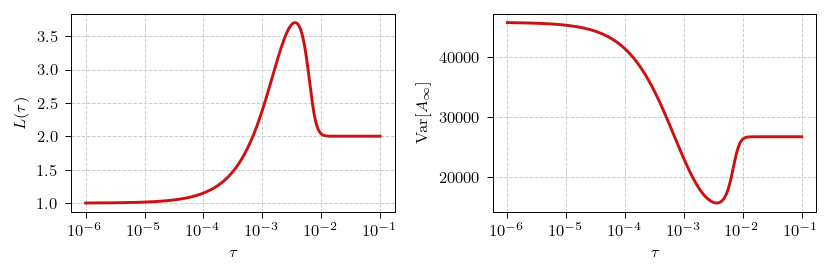
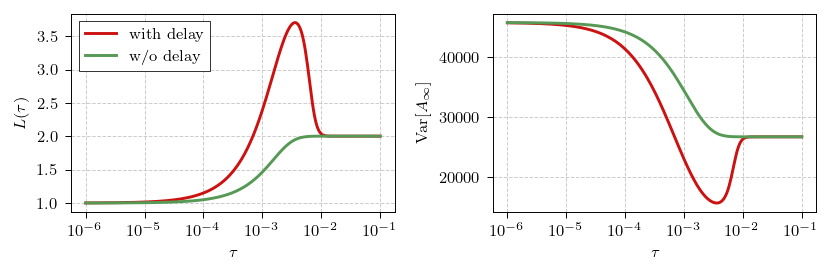
add AR(1) approximation for model w/o delays

diff --git a/ar2/theory_ar1.py b/ar2/theory_ar1.py
@@ -1,0 +1,59 @@
+from typing import TypeVar
+
+import numpy as np
+
+from .theory import _get_phi, _get_psi, _get_rho
+
+float_or_array = TypeVar("float_or_array", float, np.ndarray)
+
+
+def _get_variance(
+    tau: float_or_array,
+    epsi_0: float,
+    epsi_1: float,
+    n_agents: int,
+) -> float_or_array:
+    """Calculate stationary variance when poll outcome is announced immediately."""
+    phi_1, phi_2 = _get_phi(tau, epsi_0, epsi_1, n_agents)
+    phi_3 = phi_1 + (1 - phi_1) * phi_2
+
+    psi_0, _, _, psi_12, psi_22 = _get_psi(tau, epsi_0, epsi_1, n_agents)
+
+    rho_1, rho_2 = _get_rho(tau, epsi_0, epsi_1, n_agents)
+
+    numerator = psi_0
+    denominator = 1 - phi_3**2 - psi_12 - psi_22
+
+    return numerator / denominator
+
+
+def get_scaling_law(
+    tau: float_or_array,
+    epsi_0: float = 1.0,
+    epsi_1: float = 1.0,
+    n_agents: int = 1000,
+) -> float_or_array:
+    """Calculate the scaling law when poll outcome is announced immediately.
+
+    Input:
+        tau:
+            Time interval between successive polls. Expects either single
+            value, or a multiple value stored as numpy array.
+        epsi_0: (default: 1)
+            Independent transition rate from state 1 to state 0.
+        epsi_1: (default: 1)
+            Independent transition rate from state 0 to state 1.
+        n_agents: (default: 1000)
+            Number of agents acting in the system.
+
+    Output:
+        The value(s) of the scaling law for given tau(s) and model parameters.
+    """
+    variance = _get_variance(tau, epsi_0, epsi_1, n_agents)
+
+    numerator = ((epsi_0 + epsi_1) ** 2) * variance
+    numerator = epsi_0 * epsi_1 * (n_agents**2) - numerator
+
+    denominator = ((epsi_0 + epsi_1) ** 3) * variance
+    denominator = denominator - epsi_0 * epsi_1 * (epsi_0 + epsi_1) * n_agents
+    return numerator / denominator

diff --git a/ar2/__init__.py b/ar2/__init__.py
@@ -1,1 +1,2 @@
 from .theory import get_scaling_law
+from .theory_ar1 import get_scaling_law as get_alt_law

diff --git a/README.md b/README.md
@@ -291,8 +291,9 @@ a hidden function `_get_variance`.
 import matplotlib.pyplot as plt
 import numpy as np
 
-from ar2 import get_scaling_law
+from ar2 import get_scaling_law, get_alt_law
 from ar2.theory import _get_variance
+from ar2.theory_ar1 import _get_variance as _get_alt_var
 
 taus = np.logspace(-6, -1, 301)
 
@@ -303,19 +304,25 @@ n_agents = 1000
 law = get_scaling_law(taus, epsi_0=epsi_0, epsi_1=epsi_1, n_agents=n_agents)
 var = _get_variance(taus, epsi_0=epsi_0, epsi_1=epsi_1, n_agents=n_agents)
 
+alt_law = get_alt_law(taus, epsi_0=epsi_0, epsi_1=epsi_1, n_agents=n_agents)
+alt_var = _get_alt_var(taus, epsi_0=epsi_0, epsi_1=epsi_1, n_agents=n_agents)
+
 plt.figure(figsize=(6, 2))
 plt.subplot(121)
 plt.xlabel(r"$\tau$")
 plt.ylabel(r"$L(\tau)$")
 plt.semilogx()
 plt.minorticks_off()
-plt.plot(taus, law)
+plt.plot(taus, law, label="with delay")
+plt.plot(taus, alt_law, label="w/o delay")
+plt.legend(loc=0)
 plt.subplot(122)
 plt.xlabel(r"$\tau$")
 plt.ylabel(r"$\mathrm{Var}[A_\infty]$")
 plt.semilogx()
 plt.minorticks_off()
 plt.plot(taus, var)
+plt.plot(taus, alt_var)
 plt.tight_layout()
 plt.show()
 ```
